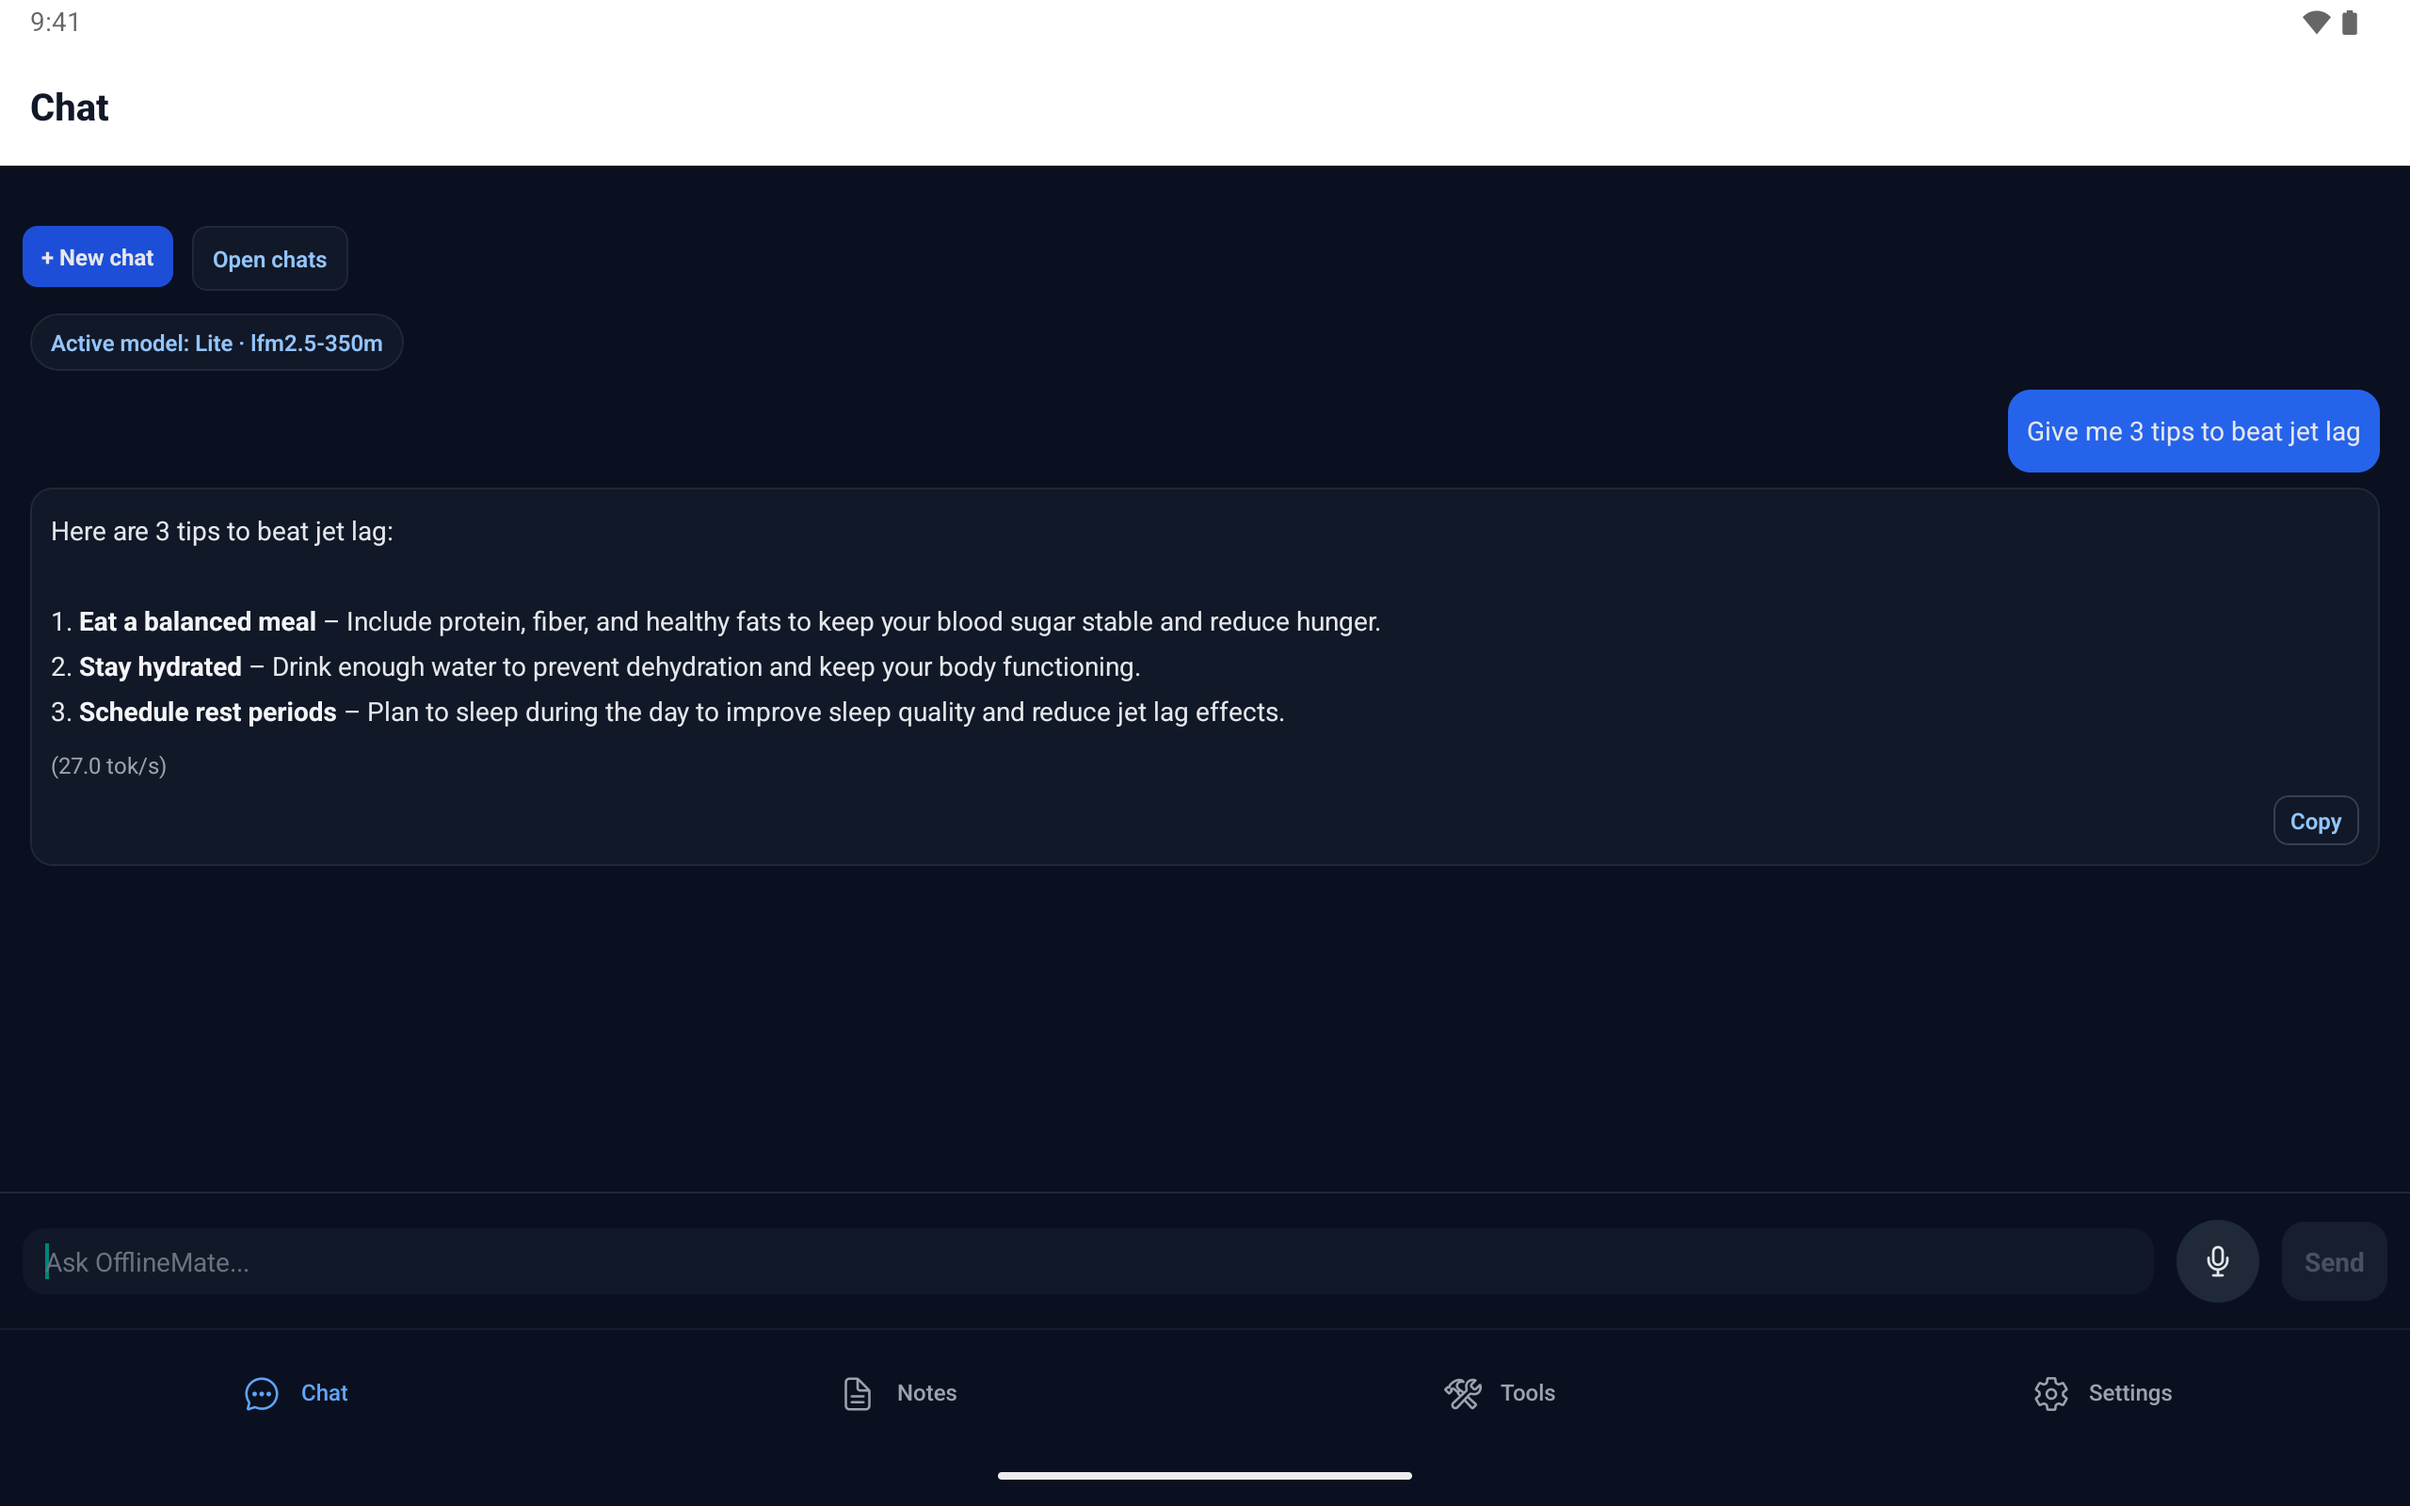
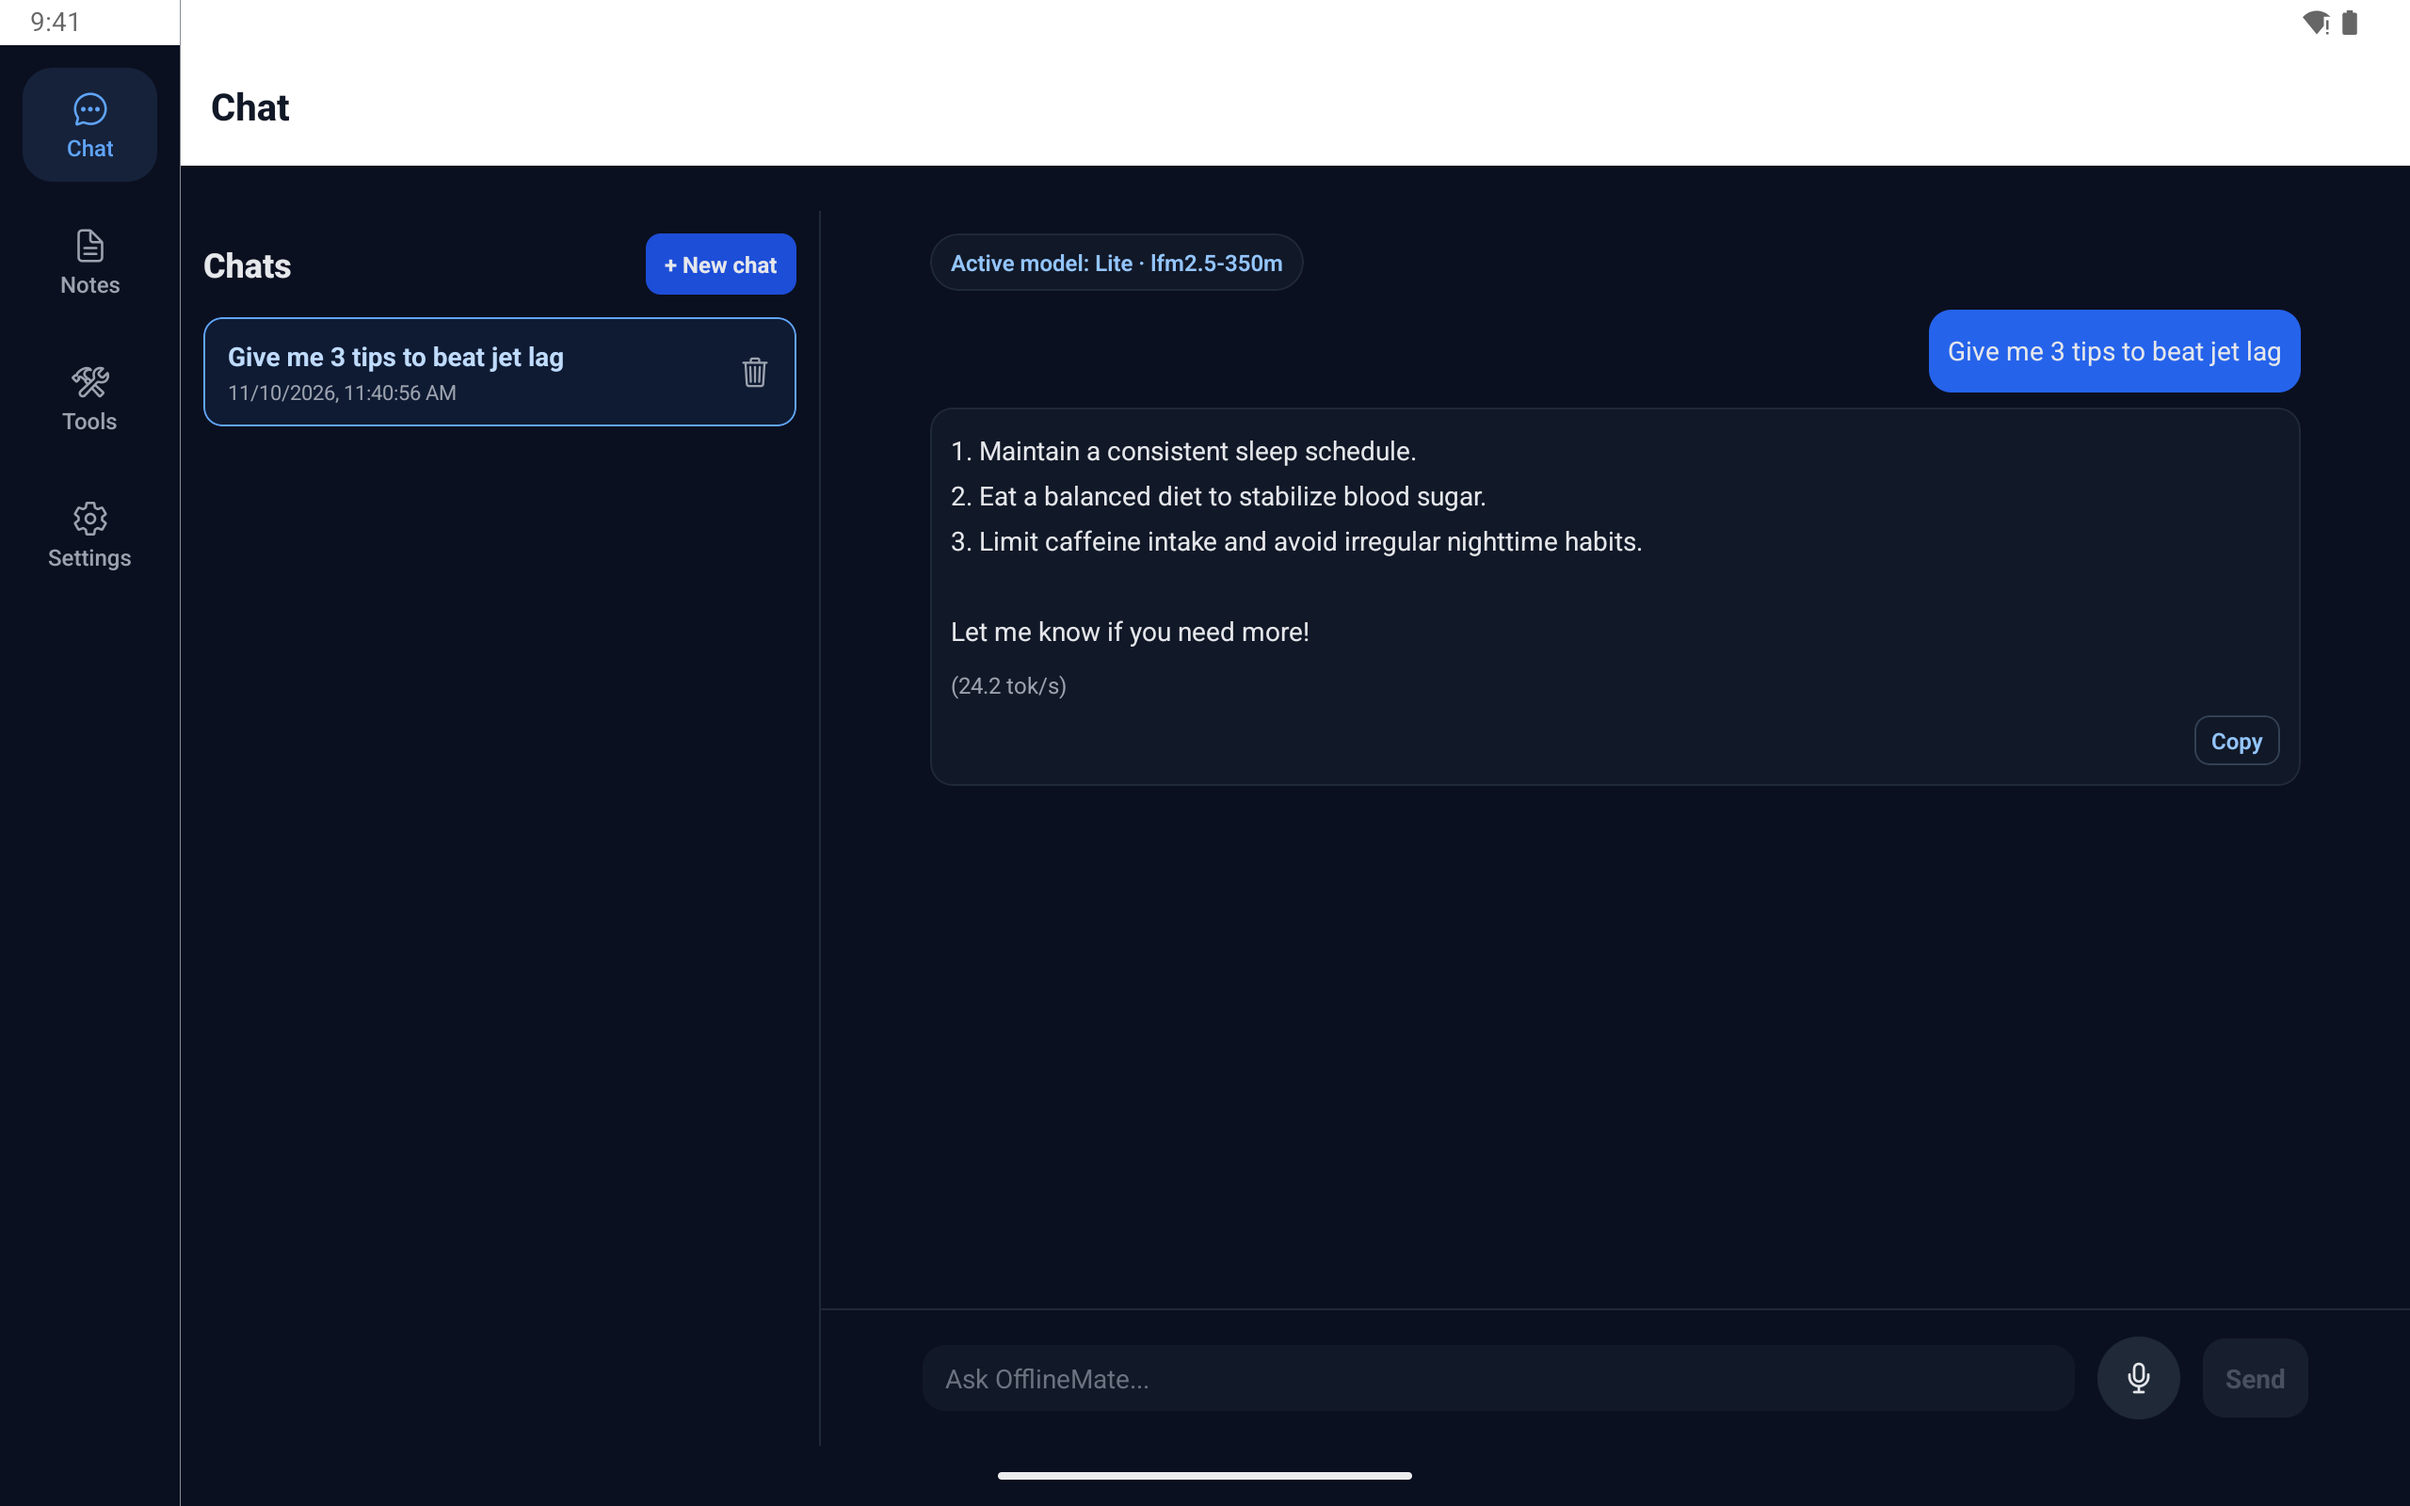
Tablet store screenshots, changelog and version 0.8.0
Re-capture the 7-inch (960x600 dp) and 10-inch (Pixel Tablet) Play Store
screenshots with the new tablet layout.

diff --git a/CHANGELOG.md b/CHANGELOG.md
@@ -2,6 +2,24 @@
 
 All notable changes to this project are documented in this file.
 
+## [0.8.0] - 2026-11-10
+
+### Added
+- Tablet layout. Screens 600 dp and wider (tablets, large foldables, split-screen windows) get a navigation rail on the left instead of the bottom tab bar, and their content is capped at a readable width instead of stretching across the screen. Phones (under 600 dp) keep the same layout as before (`app/(tabs)/_layout.tsx`).
+- Chat on a wide screen (840 dp and up, such as a tablet in landscape) shows two panes: your chats on the left, the conversation on the right. Tap a chat to open it, or start one with + New chat. The message column and composer are capped at 760 dp and centred. Between 600 and 840 dp (a tablet in portrait), chat stays one column with the same width cap (`app/(tabs)/chat.tsx`, `src/components/ChatListPane.tsx`, `src/components/ChatComposer.tsx`).
+- Notes on a wide screen show the list beside the selected note. The newest note opens first, and a note you save opens right away (`app/(tabs)/notes.tsx`).
+- One shared breakpoint helper, so screens don't compare widths themselves: compact under 600 dp, medium 600–839 dp, expanded 840 dp and up, plus the max widths for reading content, chat and dialogs (`src/utils/layout.ts`, `src/hooks/useBreakpoint.ts`, `tests/unit/layout.test.ts`).
+- New 7-inch (1920×1200) and 10-inch (2560×1600) Play Store tablet screenshots of the tablet layout. The 7-inch set is captured at a 7-inch tablet's size (960×600 dp) and the 10-inch set on the Pixel Tablet emulator (1280×800 dp) (`assets/play-store-listing/screenshots/tablet/`, `marketing/video/shots/tablet*-*.png`, `marketing/tools/stills-jobs.json`).
+
+### Changed
+- Settings, the model picker, Tools, Chats and setup are capped at a readable width on wide screens. The model picker is a centred dialog up to 560 dp wide (`app/(tabs)/settings.tsx`, `app/(tabs)/tools.tsx`, `app/(tabs)/chats.tsx`, `app/onboarding.tsx`).
+- App version updated to `0.8.0` in `app.json`. This is a minor release: a new tablet layout.
+
+### Known issues
+- The app stays portrait-only on phones (`"orientation": "portrait"`). Tablets rotate because Android 16 ignores orientation locks on large screens. On older Android versions a tablet stays in portrait and gets the one-column tablet layout.
+- On a 4 GB tablet, setup says "Recommended tier: Lite (3-4 GB RAM)" but highlights Standard (`app/onboarding.tsx`).
+- The demo video still has no reminder flow. It was recorded before the 0.7.1 and 0.7.2 fixes.
+
 ## [0.7.2] - 2026-11-10
 
 ### Fixed

diff --git a/assets/play-store-listing/README.md b/assets/play-store-listing/README.md
@@ -7,8 +7,8 @@ Upload these in **Play Console → Grow users → Store presence → Main store 
 | App icon | `store-icon-512.png` | 512×512 PNG | Made by `scripts/generate-play-store-assets.ps1` from `assets/icon.png` (full-bleed tile; Play adds the rounded mask). |
 | Feature graphic | `feature-graphic-1024x500.png` | 1024×500 PNG | Logo, name and tagline sit well inside the edges; the phones bleed off the bottom on purpose. |
 | Phone screenshots | `screenshots/phone/01-…06-*.png` | 1080×1920 (9:16) | Upload in number order; the first three show in search results. |
-| 7-inch tablet screenshots | `screenshots/tablet/tablet7/*.png` | 1920×1200 (16:10) | Captured on a Pixel Tablet emulator. |
-| 10-inch tablet screenshots | `screenshots/tablet/tablet10/*.png` | 2560×1600 (16:10) | Same screens at full tablet resolution. |
+| 7-inch tablet screenshots | `screenshots/tablet/tablet7/*.png` | 1920×1200 (16:10) | The tablet layout at a 7-inch tablet's size (960×600 dp), captured on the Pixel Tablet emulator with `wm size 1920x1200` and `wm density 320`. |
+| 10-inch tablet screenshots | `screenshots/tablet/tablet10/*.png` | 2560×1600 (16:10) | The tablet layout on the Pixel Tablet emulator (1280×800 dp): navigation rail, chat list beside the conversation, notes list beside the note. |
 | Promo video (optional) | `marketing/out/offlinemate-demo-1920x1080.mp4` | 1920×1080, 35 s | Play only takes a YouTube URL: upload this to YouTube first, then paste the link. |
 
 ## Phone screenshot order

diff --git a/marketing/README.md b/marketing/README.md
@@ -18,7 +18,7 @@ Source and build scripts for the demo video, website images and Play Store graph
 | `tools/stills.mjs`, `tools/stills-jobs.json` | Renders the stills listed in the jobs file. |
 | `tools/web_assets.py` | Exports WebP screenshots, the OG image, and the web video, poster and captions into `website/`. |
 | `out/` | The videos and captions. `out/store/` and `out/web/` are render intermediates (git-ignored) that `web_assets.py` and the copy step put into `website/` and `assets/play-store-listing/`. |
-| `video/shots/tablet-*.png` | Tablet screenshots (2560×1600, Pixel Tablet emulator) used by the tablet store stills. |
+| `video/shots/tablet-*.png`, `video/shots/tablet7-*.png` | Tablet screenshots used by the 10-inch and 7-inch store stills: 2560×1600 on the Pixel Tablet emulator, and 1920×1200 on the same emulator set to a 7-inch size (`adb shell wm size 1920x1200` and `wm density 320`; undo with `wm size reset` and `wm density reset`). |
 | `raw/` | Recordings and intermediates (git-ignored). |
 
 ## Outputs
